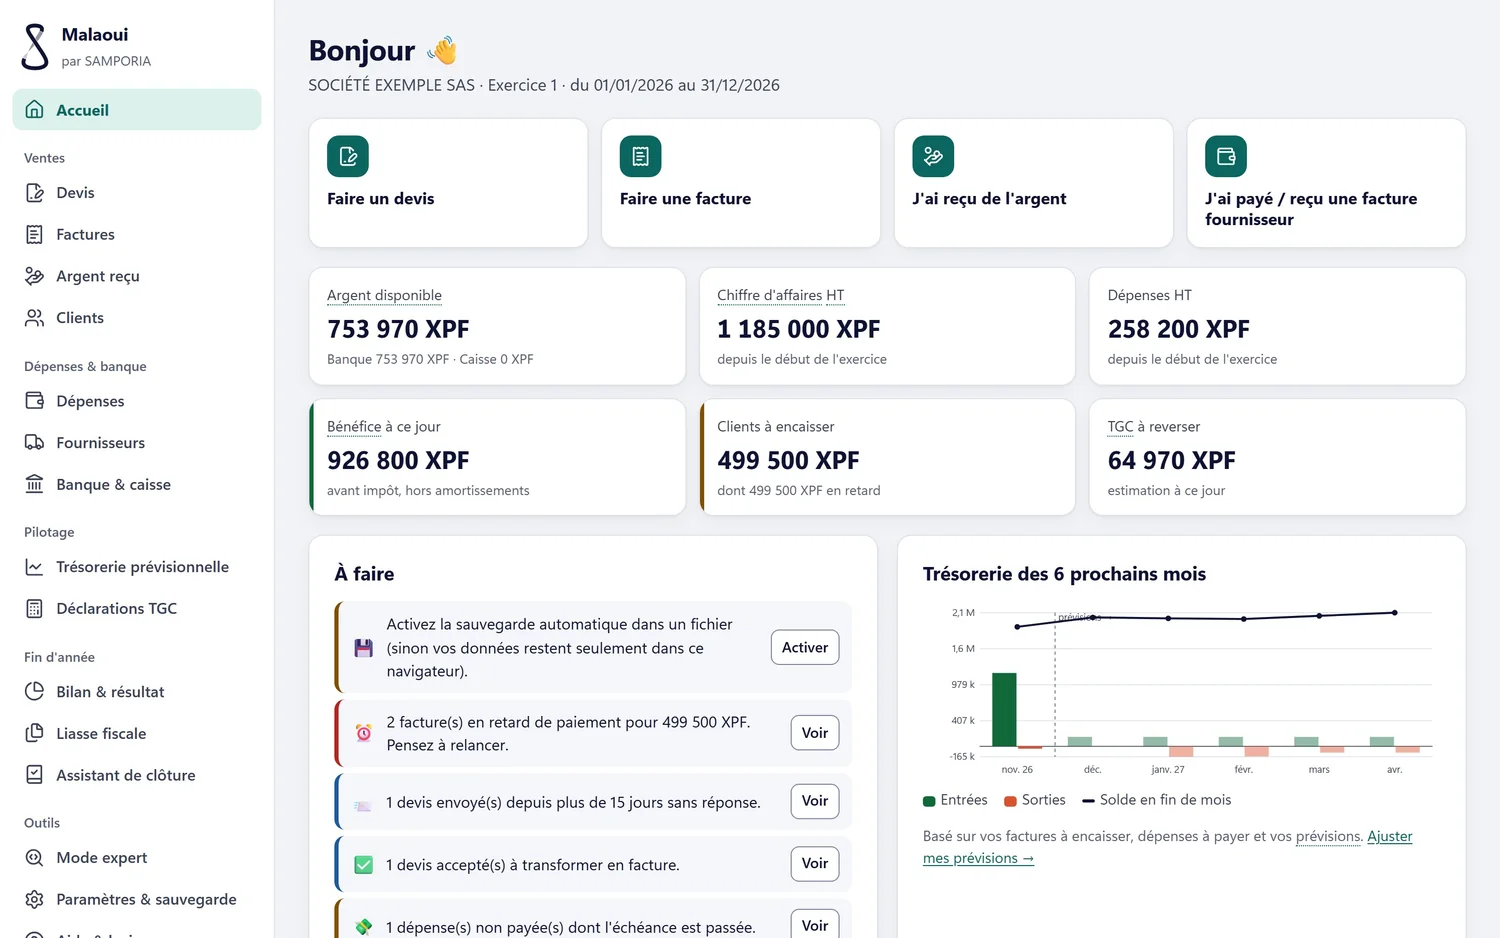
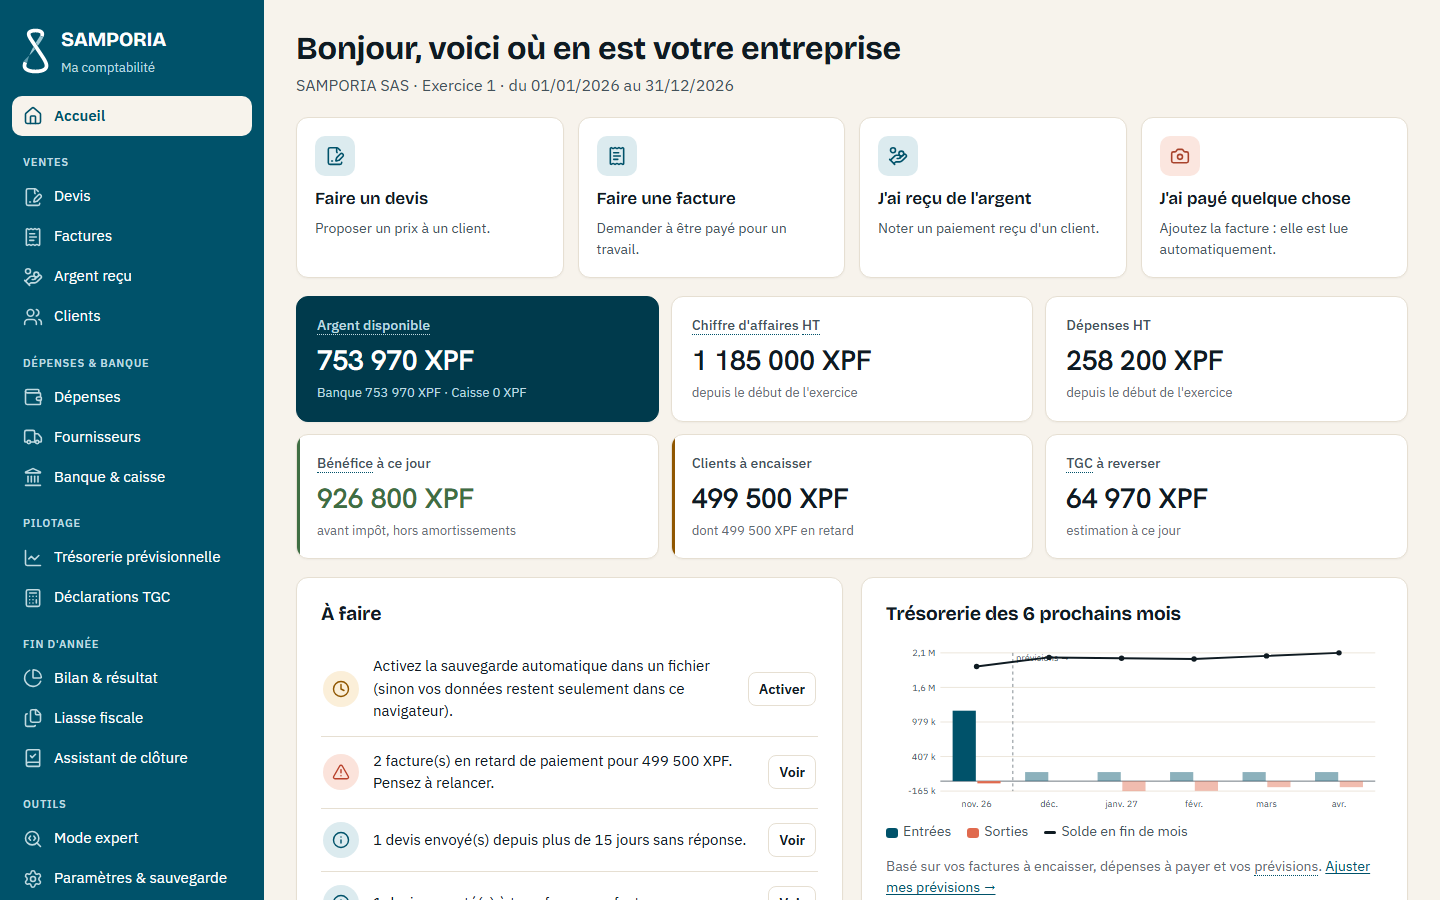
Malaoui : nouvelles captures (style Lagon) et page mise a jour

diff --git a/malaoui/index.html b/malaoui/index.html
@@ -41,39 +41,35 @@
 
 <main class="pp">
   <div class="wrap">
-    <div class="pp-hero-fig"><figure class="pp-fig"><a class="zoom" href="../img/galerie/grand/malaoui-accueil.webp" aria-label="Agrandir la capture : Tableau de bord de Malaoui : actions rapides, chiffres clés, liste « À faire » et trésorerie (données fictives)"><img src="../img/galerie/malaoui-accueil.webp" width="1500" height="938" alt="Tableau de bord de Malaoui : actions rapides, chiffres clés, liste « À faire » et trésorerie (données fictives)"></a></figure></div>
+    <div class="pp-hero-fig"><figure class="pp-fig"><a class="zoom" href="../img/galerie/grand/malaoui-accueil.webp" aria-label="Agrandir la capture : Tableau de bord de Malaoui : actions rapides, chiffres clés, liste « À faire » et trésorerie (données fictives)"><img src="../img/galerie/malaoui-accueil.webp" width="1440" height="900" alt="Tableau de bord de Malaoui : actions rapides, chiffres clés, liste « À faire » et trésorerie (données fictives)"></a></figure></div>
 
   <section class="pp-sec" aria-labelledby="s-depense">
     <h2 id="s-depense">Saisir sans effort</h2>
-    <p>Une photo ou un PDF de facture suffit : les informations sont lues automatiquement, il ne reste qu’à vérifier.</p>
-    <div class="pp-figs"><figure class="pp-fig"><a class="zoom" href="../img/galerie/grand/malaoui-depense.webp" aria-label="Agrandir la capture : Saisie d’une dépense dans Malaoui : les informations de la facture jointe sont lues automatiquement (données fictives)"><img src="../img/galerie/malaoui-depense.webp" width="1440" height="900" loading="lazy" alt="Saisie d’une dépense dans Malaoui : les informations de la facture jointe sont lues automatiquement (données fictives)"></a></figure></div>
+    <p>Une photo ou un PDF de facture suffit : le fournisseur, la date, les montants et la TGC sont lus automatiquement et surlignés. On vérifie, puis on enregistre.</p>
+    <div class="pp-figs"><figure class="pp-fig"><a class="zoom" href="../img/galerie/grand/malaoui-depense.webp" aria-label="Agrandir la capture : Saisie d’une dépense dans Malaoui : les informations de la facture jointe sont lues automatiquement et surlignées pour vérification (données fictives)"><img src="../img/galerie/malaoui-depense.webp" width="1440" height="900" loading="lazy" alt="Saisie d’une dépense dans Malaoui : les informations de la facture jointe sont lues automatiquement et surlignées pour vérification (données fictives)"></a></figure></div>
   </section>
 
-  <section class="pp-sec" aria-labelledby="s-factures">
-    <h2 id="s-factures">Factures et trésorerie</h2>
-    <p>Les factures et leurs retards de paiement d’un coup d’œil, et une trésorerie prévisionnelle sur 12 mois avec une alerte avant de passer dans le rouge.</p>
-    <div class="pp-figs duo"><figure class="pp-fig"><a class="zoom" href="../img/galerie/grand/malaoui-factures.webp" aria-label="Agrandir la capture : Liste des factures de Malaoui, avec les retards de paiement (données fictives)"><img src="../img/galerie/malaoui-factures.webp" width="1500" height="938" loading="lazy" alt="Liste des factures de Malaoui, avec les retards de paiement (données fictives)"></a></figure>
-      <figure class="pp-fig"><a class="zoom" href="../img/galerie/grand/malaoui-tresorerie.webp" aria-label="Agrandir la capture : Trésorerie prévisionnelle de Malaoui sur 12 mois (données fictives)"><img src="../img/galerie/malaoui-tresorerie.webp" width="1500" height="938" loading="lazy" alt="Trésorerie prévisionnelle de Malaoui sur 12 mois (données fictives)"></a></figure></div>
+  <section class="pp-sec" aria-labelledby="s-bilan">
+    <h2 id="s-bilan">Les comptes expliqués en français courant</h2>
+    <p>Le bilan et le compte de résultat s’accompagnent d’un paragraphe « En clair » : ce que la société possède, et comment c’est financé.</p>
+    <div class="pp-figs"><figure class="pp-fig"><a class="zoom" href="../img/galerie/grand/malaoui-bilan.webp" aria-label="Agrandir la capture : Bilan de Malaoui avec un paragraphe « En clair » (données fictives)"><img src="../img/galerie/malaoui-bilan.webp" width="1440" height="900" loading="lazy" alt="Bilan de Malaoui avec un paragraphe « En clair » (données fictives)"></a></figure></div>
   </section>
 
-  <section class="pp-sec" aria-labelledby="s-tgc">
-    <h2 id="s-tgc">TGC et bilan, en clair</h2>
-    <p>La déclaration de TGC est précalculée. Le bilan et le compte de résultat s’accompagnent d’un paragraphe « En clair », pour comprendre ce que disent les chiffres.</p>
-    <div class="pp-figs duo"><figure class="pp-fig"><a class="zoom" href="../img/galerie/grand/malaoui-tgc.webp" aria-label="Agrandir la capture : Déclaration de TGC précalculée dans Malaoui (données fictives)"><img src="../img/galerie/malaoui-tgc.webp" width="1500" height="938" loading="lazy" alt="Déclaration de TGC précalculée dans Malaoui (données fictives)"></a></figure>
-      <figure class="pp-fig"><a class="zoom" href="../img/galerie/grand/malaoui-bilan.webp" aria-label="Agrandir la capture : Bilan et compte de résultat de Malaoui avec un paragraphe « En clair » (données fictives)"><img src="../img/galerie/malaoui-bilan.webp" width="1500" height="938" loading="lazy" alt="Bilan et compte de résultat de Malaoui avec un paragraphe « En clair » (données fictives)"></a></figure></div>
+  <section class="pp-sec" aria-labelledby="s-suite">
+    <h2 id="s-suite">Du devis à la fin d’année</h2>
+    <p>Devis, factures et avoirs en PDF, liste « À faire » (factures en retard, TGC à déclarer, clôture qui approche), déclarations de TGC précalculées et trésorerie des 12 prochains mois, avec une alerte avant de passer dans le rouge.</p>
+    
   </section>
 
   <section class="pp-sec" aria-labelledby="s-mobile">
     <h2 id="s-mobile">Aussi sur téléphone</h2>
-    <p>Tableau de bord, factures et trésorerie se consultent sur un téléphone.</p>
-    <div class="phones phones-s"><figure class="shot"><a class="zoom" href="../img/galerie/grand/malaoui-m-accueil.webp" aria-label="Agrandir la capture : Malaoui sur téléphone : tableau de bord (données fictives)"><img src="../img/galerie/malaoui-m-accueil.webp" width="720" height="1558" loading="lazy" alt="Malaoui sur téléphone : tableau de bord (données fictives)"></a></figure>
-      <figure class="shot"><a class="zoom" href="../img/galerie/grand/malaoui-m-factures.webp" aria-label="Agrandir la capture : Malaoui sur téléphone : factures (données fictives)"><img src="../img/galerie/malaoui-m-factures.webp" width="720" height="1558" loading="lazy" alt="Malaoui sur téléphone : factures (données fictives)"></a></figure>
-      <figure class="shot"><a class="zoom" href="../img/galerie/grand/malaoui-m-tresorerie.webp" aria-label="Agrandir la capture : Malaoui sur téléphone : trésorerie prévisionnelle (données fictives)"><img src="../img/galerie/malaoui-m-tresorerie.webp" width="720" height="1558" loading="lazy" alt="Malaoui sur téléphone : trésorerie prévisionnelle (données fictives)"></a></figure></div>
+    <p>Les données sont synchronisées entre l’ordinateur et le téléphone.</p>
+    <div class="phones phones-s"><figure class="shot"><a class="zoom" href="../img/galerie/grand/malaoui-m-accueil.webp" aria-label="Agrandir la capture : Malaoui sur téléphone : tableau de bord (données fictives)"><img src="../img/galerie/malaoui-m-accueil.webp" width="780" height="1688" loading="lazy" alt="Malaoui sur téléphone : tableau de bord (données fictives)"></a></figure></div>
   </section>
 
   <section class="pp-sec pp-savoir" aria-labelledby="s-savoir">
     <h2 id="s-savoir">Ce qu’il faut savoir</h2>
-    <ul><li>Son nom vient du pic Malaoui, à Dumbéa. Conçu et utilisé par SAMPORIA.</li><li>Malaoui est un outil d’aide qui prépare les documents : il ne remplace pas un expert-comptable.</li><li>Les captures montrent des données fictives.</li></ul>
+    <ul><li>Son nom vient du pic Malaoui, à Dumbéa. Conçu et utilisé par SAMPORIA.</li><li>Malaoui est un outil d’aide : il ne remplace pas un expert-comptable, et son dossier de fin d’année est une préparation, pas une déclaration officielle.</li><li>Les captures montrent des données fictives de démonstration.</li></ul>
   </section>
 
     <nav class="pp-autres" aria-label="Autres projets">

diff --git a/index.html b/index.html
@@ -224,7 +224,7 @@
   </article>
 
   <article class="pcarte" aria-labelledby="p-malaoui">
-    <a class="pcarte-visuel" href="malaoui/" tabindex="-1" aria-hidden="true"><img src="img/galerie/malaoui-accueil.webp" width="1500" height="938" loading="lazy" alt="Tableau de bord de Malaoui (données fictives)"></a>
+    <a class="pcarte-visuel" href="malaoui/" tabindex="-1" aria-hidden="true"><img src="img/galerie/malaoui-accueil.webp" width="1440" height="900" loading="lazy" alt="Tableau de bord de Malaoui (données fictives)"></a>
     <div class="chips"><span class="chip live">En usage interne</span></div>
     <h3 id="p-malaoui">Malaoui</h3>
     <p>La comptabilité d’une petite société, expliquée pas à pas, pour quelqu’un qui n’est pas comptable. On raconte la vie de l’entreprise et le logiciel tient la comptabilité à sa place.</p>

diff --git a/style.css b/style.css
@@ -395,3 +395,6 @@ dialog.lb.plein .lb-img{max-width:none;max-height:none;margin:0 auto;cursor:zoom
 .pcarte .mini-list{margin-top:16px}
 .pcarte .pcarte-lien{margin-top:auto;padding-top:22px}
 .pcarte .tarif{align-self:flex-start}
+
+/* une seule capture de téléphone : centrée à toutes les largeurs */
+.phones .shot:only-child{margin-inline:auto}
